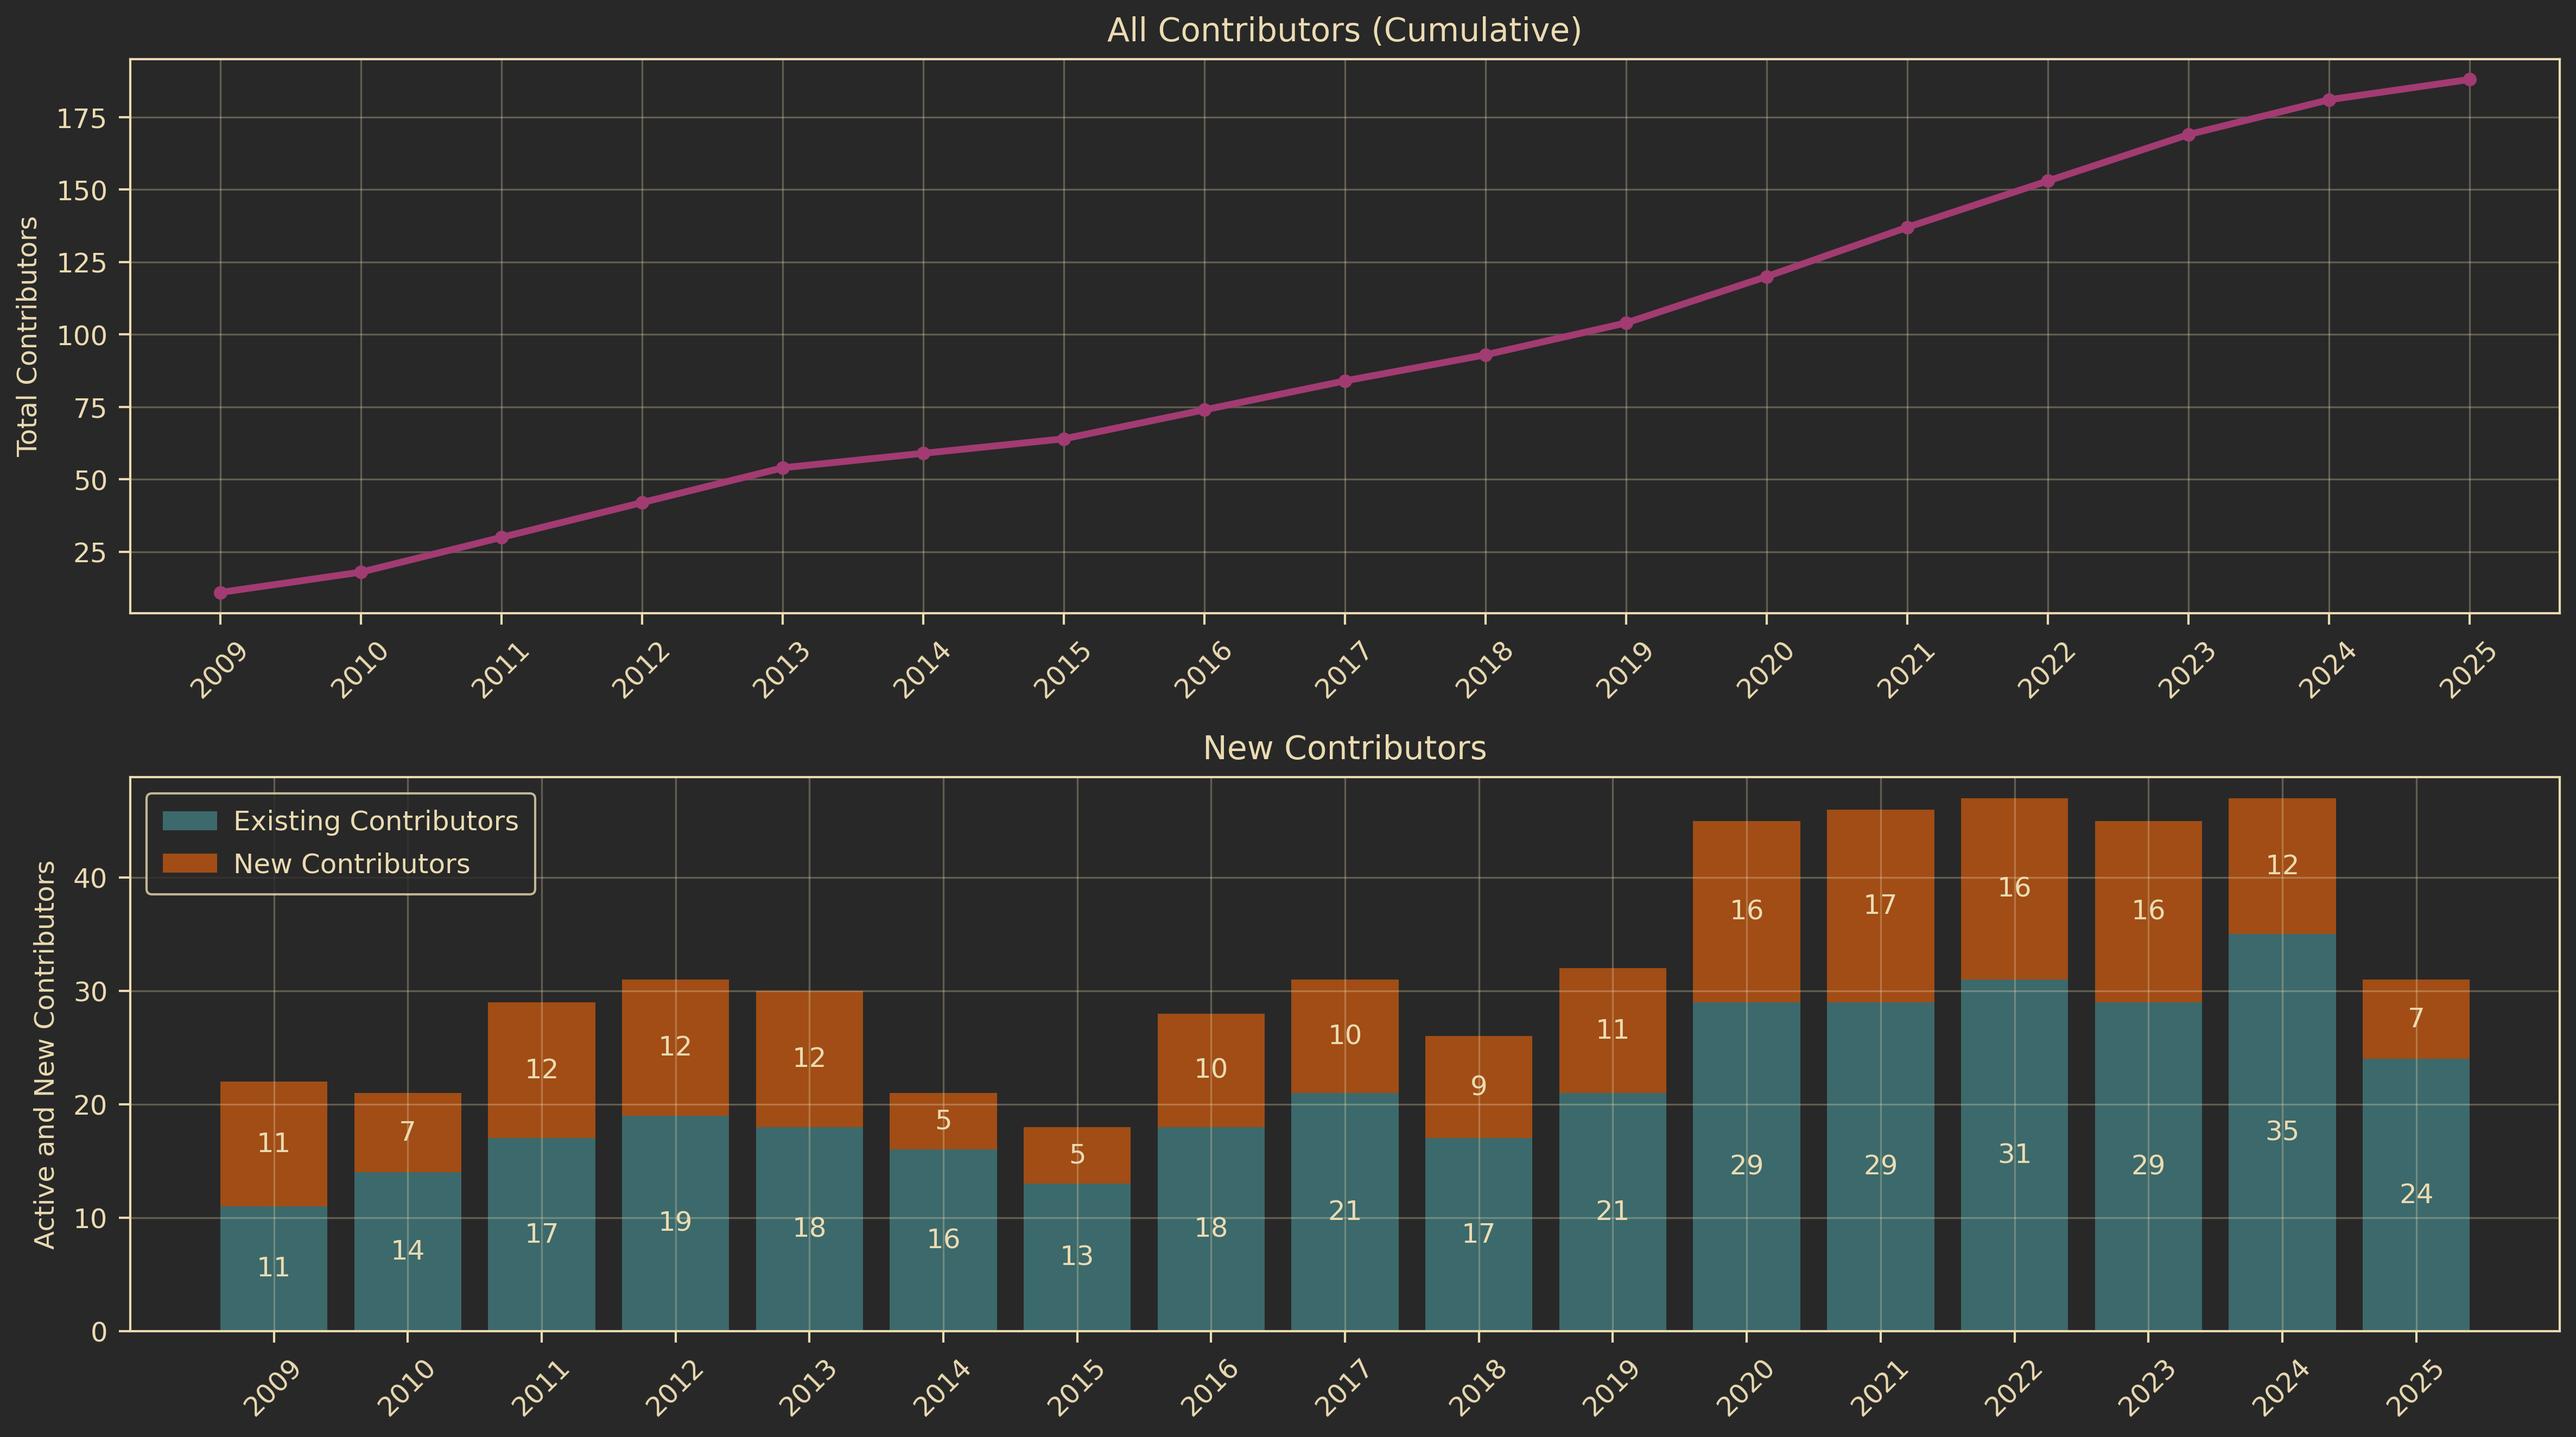
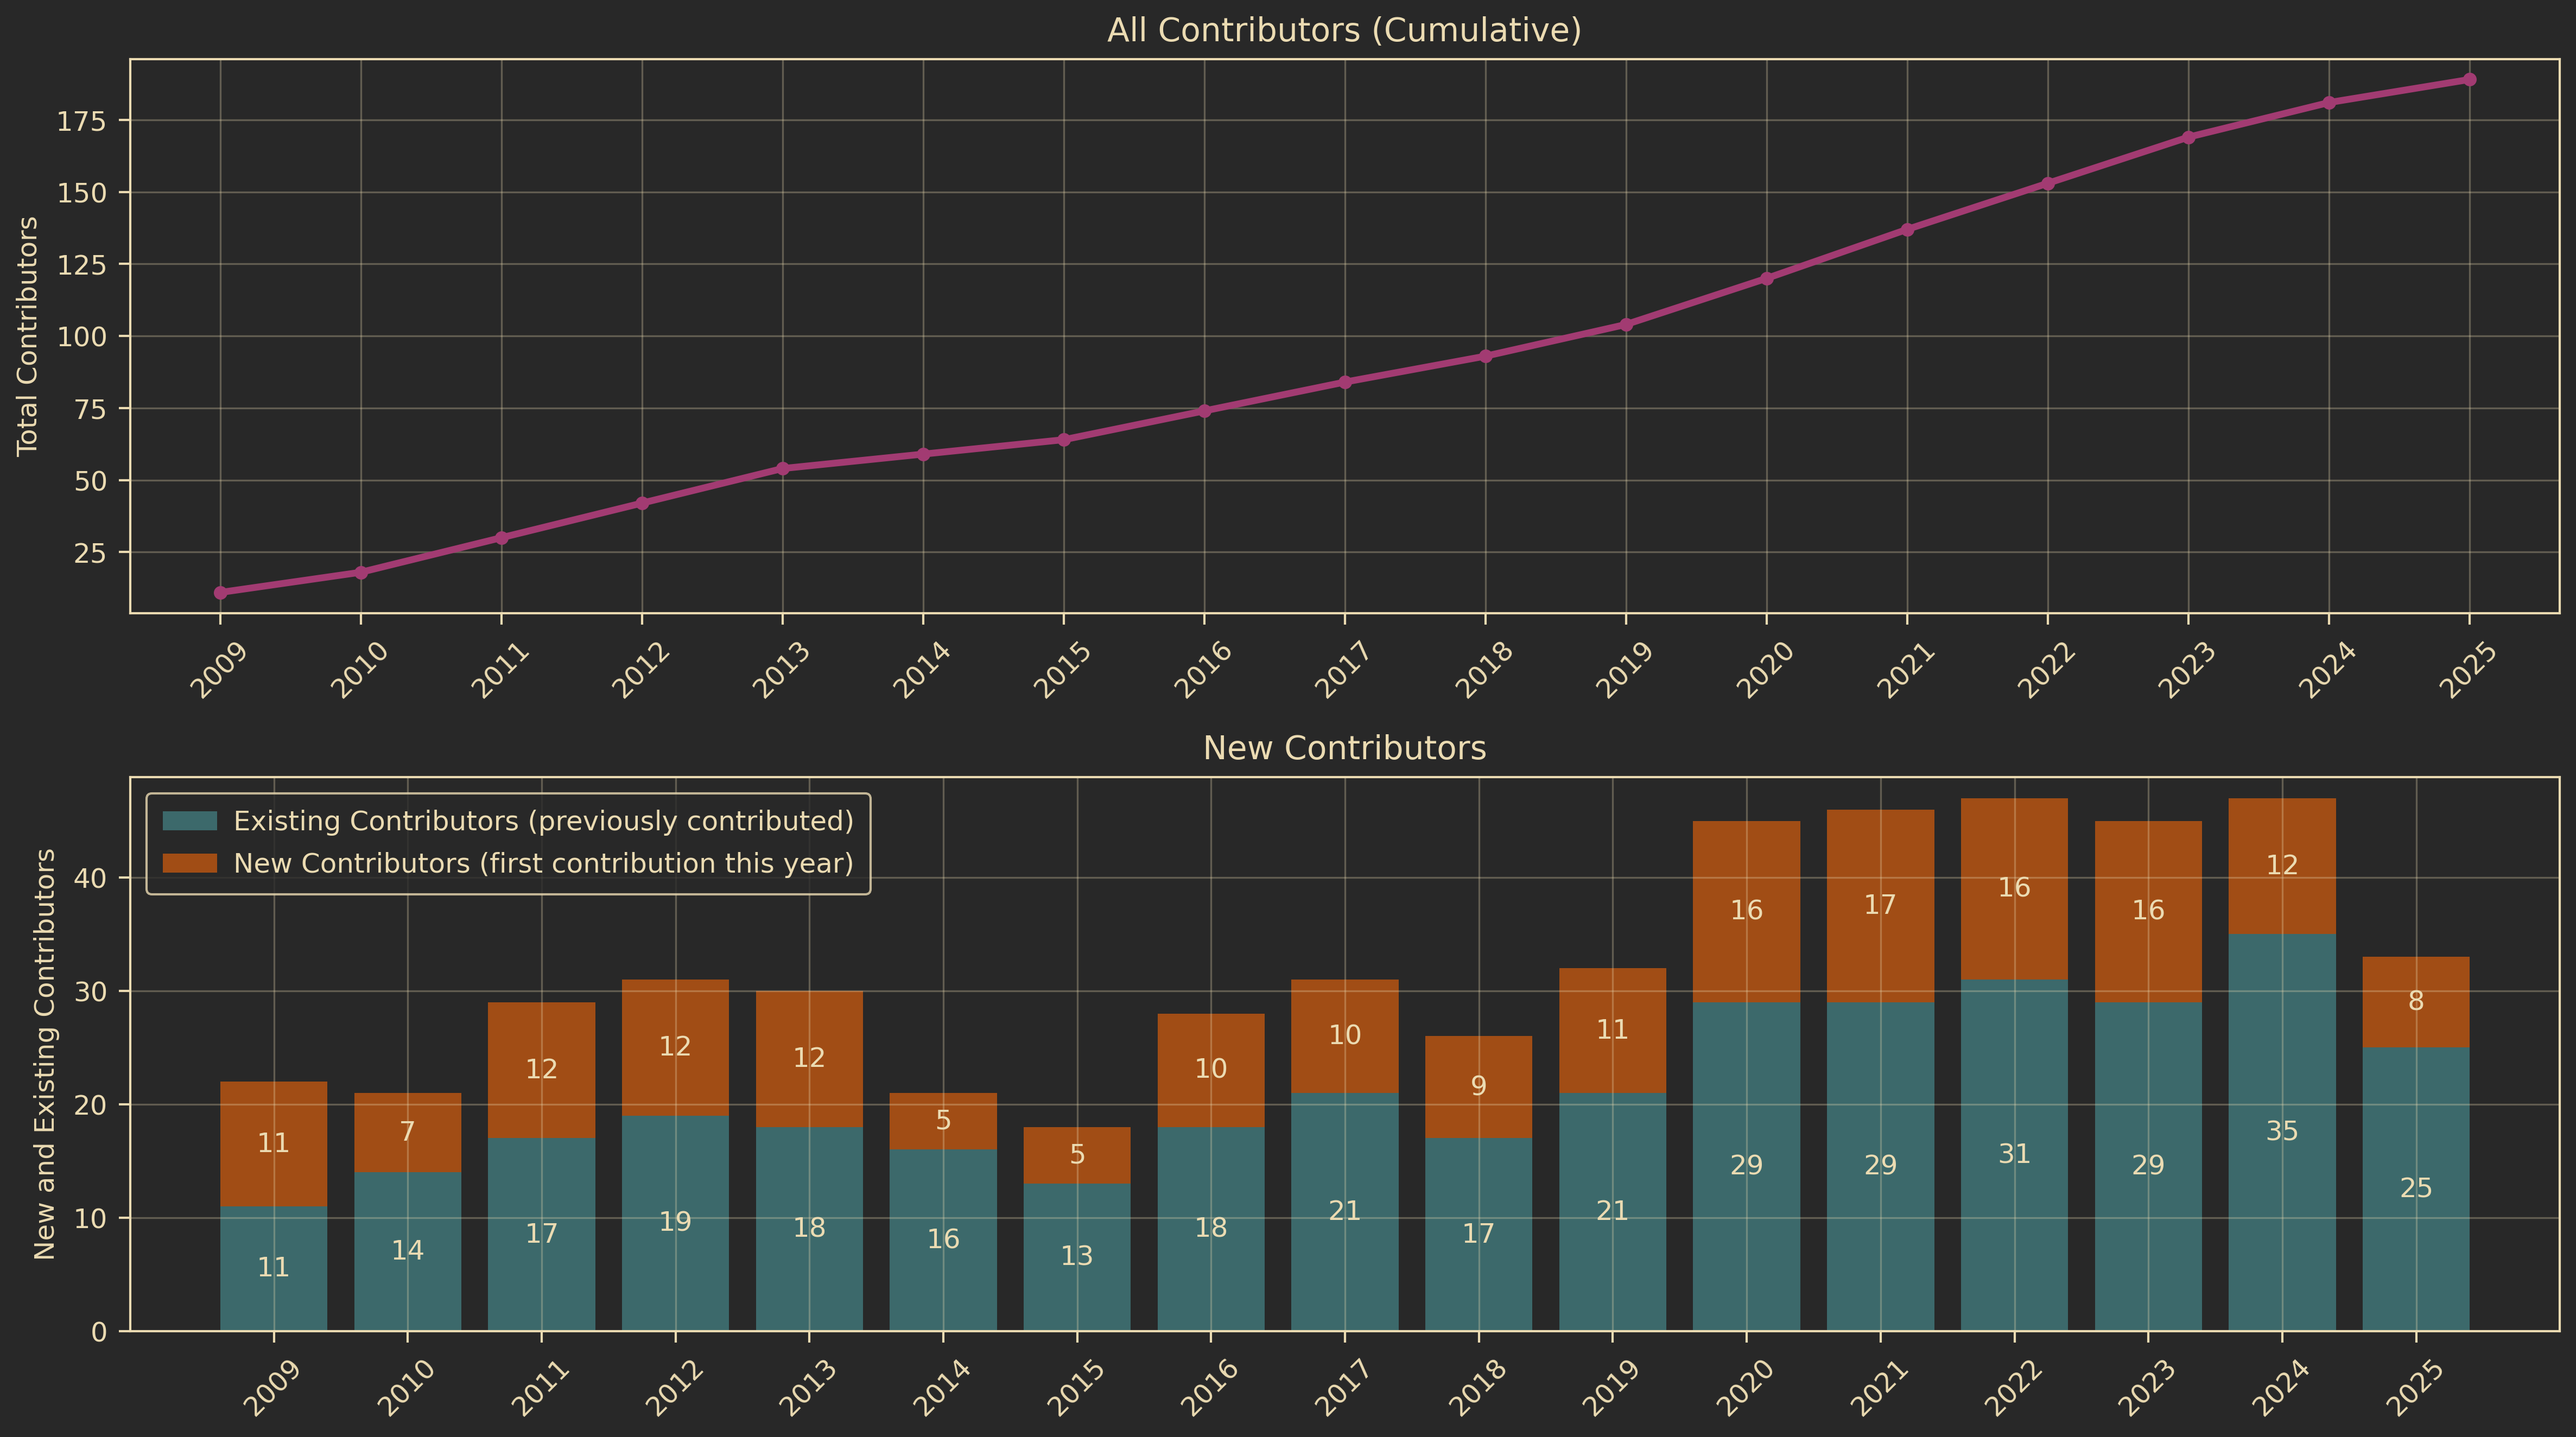
Improve contrib graph

diff --git a/stats/contributor_evolution.py b/stats/contributor_evolution.py
@@ -213,10 +213,10 @@ class GitContributorAnalyzer:
         axes[1].bar_label(p, label_type='center')
 
         axes[1].set_title("New Contributors")
-        axes[1].set_ylabel("Active and New Contributors")
+        axes[1].set_ylabel("New and Existing Contributors")
         axes[1].tick_params(axis="x", rotation=45)
         axes[1].grid(True, alpha=0.3)
-        axes[1].legend(["Existing Contributors", "New Contributors"], loc="upper left")
+        axes[1].legend(["Existing Contributors (previously contributed)", "New Contributors (first contribution this year)"], loc="upper left")
 
         plt.tight_layout()
 
